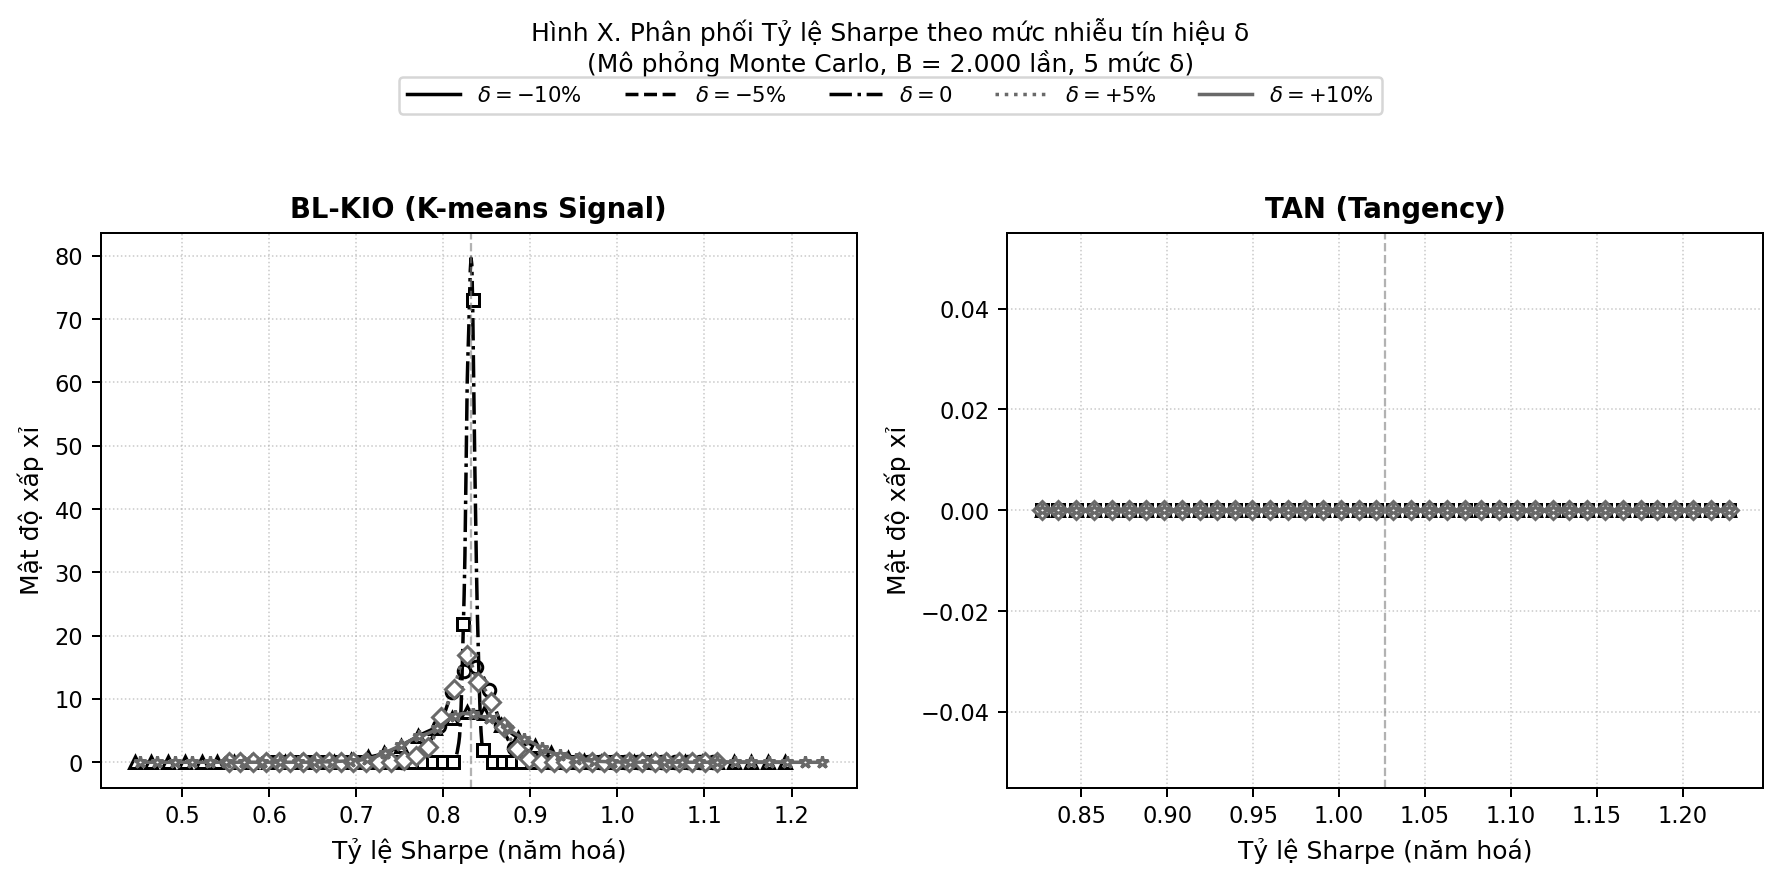
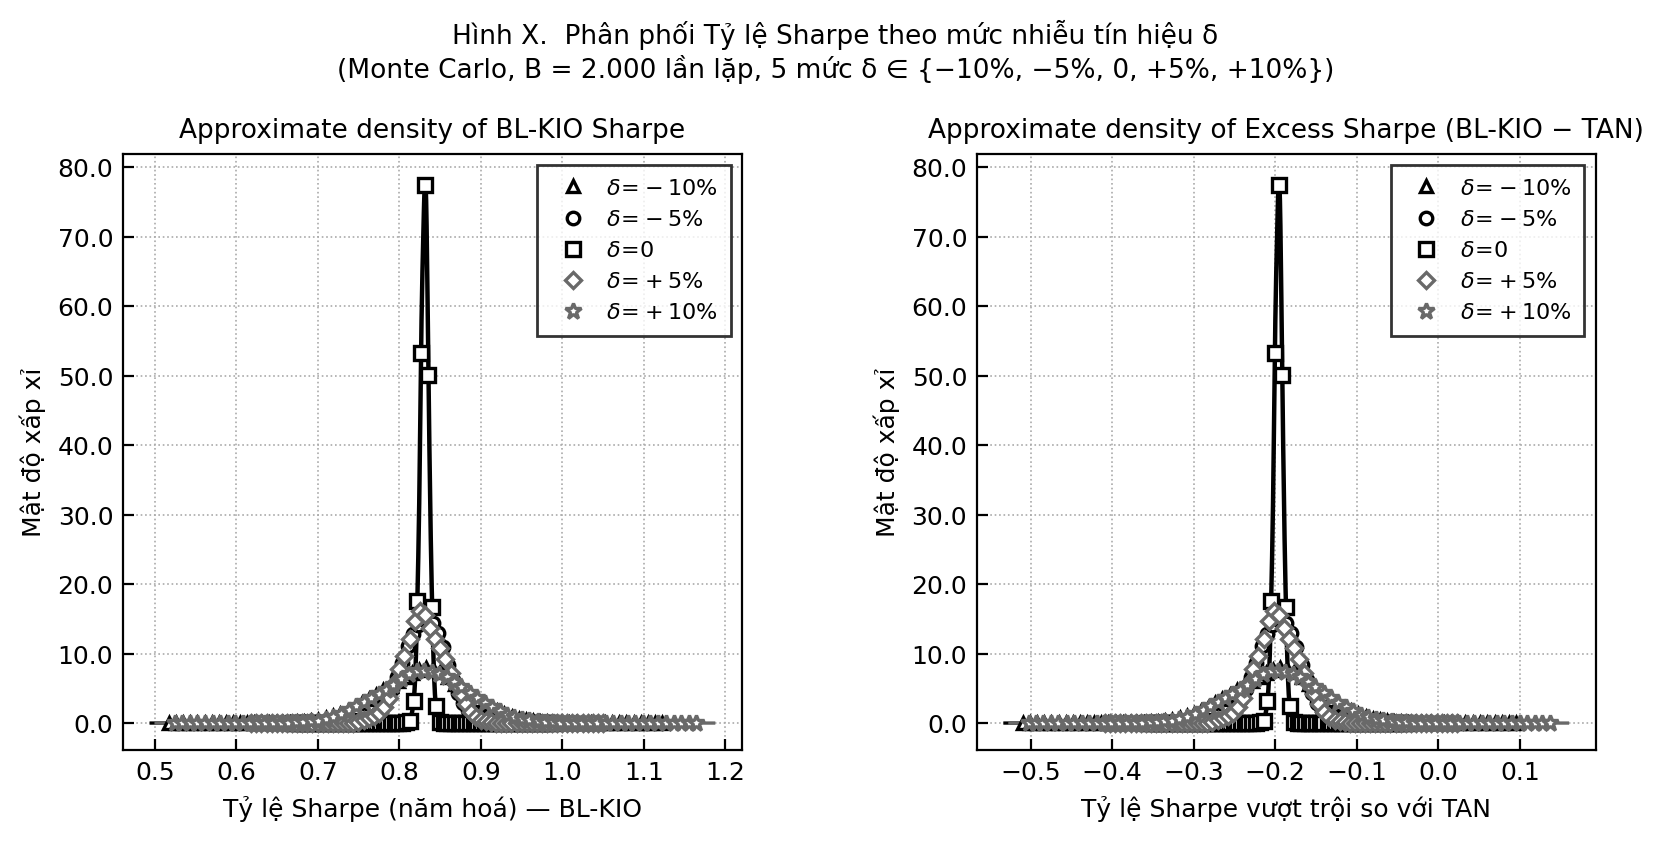
Add density comparison figure and increase Monte Carlo marker density
- plot_monte_carlo.py: increase MARK_N from 18 to 70 for denser MATLAB-style markers
- plot_density_comparison.py: new figure comparing static (delta=0 only) vs
  Monte Carlo multi-delta approach to highlight robustness contribution
- output/monte_carlo_density.png: regenerated with 70 markers per curve
- output/density_comparison.png: new comparison figure (static vs Monte Carlo)

https://claude.ai/code/session_01SDk2FqtKfcoD3LoHrfohKT

diff --git a/plot_monte_carlo.py b/plot_monte_carlo.py
@@ -1,7 +1,6 @@
 """
-Monte Carlo Sharpe Distribution Plot
-Phong cach: Bertsimas, Gupta & Paschalidis (2012) - INFORMS
-Hai subplot: BL-KIO va TAN, 5 muc delta
+Monte Carlo Sharpe Distribution
+Style: Bertsimas, Gupta & Paschalidis (2012) - Operations Research / MATLAB
 """
 
 import pandas as pd
@@ -9,78 +8,117 @@ import numpy as np
 import matplotlib
 matplotlib.use("Agg")
 import matplotlib.pyplot as plt
+import matplotlib.ticker as ticker
 from scipy.stats import gaussian_kde
 
-# ── Load data ──────────────────────────────────────────────────────────────
-df = pd.read_csv("output/monte_carlo_v2.csv")
-deltas   = sorted(df["Delta_Noise"].unique())   # [-0.1, -0.05, 0.0, 0.05, 0.1]
+# ── Matplotlib giong MATLAB ────────────────────────────────────────────────
+plt.rcParams.update({
+    "font.family":        "DejaVu Sans",
+    "font.size":          9,
+    "axes.linewidth":     0.8,
+    "axes.edgecolor":     "black",
+    "xtick.direction":    "in",
+    "ytick.direction":    "in",
+    "xtick.major.size":   4,
+    "ytick.major.size":   4,
+    "xtick.minor.visible": False,
+    "ytick.minor.visible": False,
+    "grid.linestyle":     ":",
+    "grid.linewidth":     0.6,
+    "grid.color":         "#aaaaaa",
+    "legend.frameon":     True,
+    "legend.edgecolor":   "black",
+    "legend.fancybox":    False,
+    "legend.fontsize":    8,
+})
 
-# ── Style: B&W voi marker nhu hinh mau ────────────────────────────────────
-STYLES = {
-    -0.10: dict(color="black",    linestyle="-",  marker="^", label=r"$\delta = -10\%$"),
-    -0.05: dict(color="black",    linestyle="--", marker="o", label=r"$\delta = -5\%$"),
-     0.00: dict(color="black",    linestyle="-.", marker="s", label=r"$\delta = 0$"   ),
-     0.05: dict(color="dimgray",  linestyle=":",  marker="D", label=r"$\delta = +5\%$"),
-     0.10: dict(color="dimgray",  linestyle="-",  marker="*", label=r"$\delta = +10\%$"),
-}
+# ── Data ───────────────────────────────────────────────────────────────────
+df     = pd.read_csv("output/monte_carlo_v2.csv")
+deltas = sorted(df["Delta_Noise"].unique())
 
-MARK_EVERY = 40   # marker spacing tren duong KDE
-LW         = 1.4
-MS         = 5    # marker size
-
-fig, axes = plt.subplots(1, 2, figsize=(10, 4.5))
-fig.subplots_adjust(wspace=0.35)
-
-PANELS = [
-    ("Sharpe_BL_KIO", "BL-KIO (K-means Signal)", axes[0]),
-    ("Sharpe_TAN",    "TAN (Tangency)",           axes[1]),
-]
-
-for col, title, ax in PANELS:
-    for delta in deltas:
-        sub  = df[df["Delta_Noise"] == delta][col].dropna().values
-        kde  = gaussian_kde(sub, bw_method="scott")
-        x    = np.linspace(sub.min() - 0.2, sub.max() + 0.2, 500)
-        y    = kde(x)
-        st   = STYLES[round(delta, 2)]
-
-        ax.plot(x, y,
-                color=st["color"], linestyle=st["linestyle"],
-                linewidth=LW, label=st["label"])
-
-        # Marker trai deu tren duong
-        idx = np.linspace(0, len(x)-1, MARK_EVERY, dtype=int)
-        ax.plot(x[idx], y[idx],
-                color=st["color"], marker=st["marker"],
-                markersize=MS, linestyle="None",
-                markerfacecolor="white", markeredgewidth=1.2)
-
-    ax.set_xlabel("Tỷ lệ Sharpe (năm hoá)", fontsize=10)
-    ax.set_ylabel("Mật độ xấp xỉ", fontsize=10)
-    ax.set_title(title, fontsize=11, fontweight="bold")
-    ax.tick_params(labelsize=9)
-    ax.grid(True, linestyle=":", linewidth=0.6, alpha=0.7)
-
-    # Vertical line: baseline (delta=0)
-    base = df[df["Delta_Noise"] == 0.0][col].mean()
-    ax.axvline(base, color="gray", linestyle="--", linewidth=0.9, alpha=0.6)
-
-# Legend chung o axes[1]
-handles, labels = axes[0].get_legend_handles_labels()
-fig.legend(handles, labels,
-           loc="upper center", ncol=5,
-           fontsize=8.5, frameon=True,
-           bbox_to_anchor=(0.5, 1.02),
-           handlelength=2.5)
-
-fig.suptitle(
-    "Hình X. Phân phối Tỷ lệ Sharpe theo mức nhiễu tín hiệu δ\n"
-    "(Mô phỏng Monte Carlo, B = 2.000 lần, 5 mức δ)",
-    fontsize=10, y=1.08
+# TAN la scalar moi delta → tinh excess Sharpe (BL_KIO - TAN)
+tan_scalar = df.groupby("Delta_Noise")["Sharpe_TAN"].mean().to_dict()
+df["Excess_Sharpe"] = df.apply(
+    lambda r: r["Sharpe_BL_KIO"] - tan_scalar[r["Delta_Noise"]], axis=1
 )
 
-plt.tight_layout()
+# ── Style cho 5 delta ─────────────────────────────────────────────────────
+#   giong mau: duong dam + marker day dac
+CONFIGS = {
+    -0.10: dict(ls="-",  marker="^", lw=1.2, ms=4.5, label=r"$\delta\!=\!-10\%$"),
+    -0.05: dict(ls="--", marker="o", lw=1.2, ms=4.5, label=r"$\delta\!=\!-5\%$" ),
+     0.00: dict(ls="-",  marker="s", lw=1.6, ms=5.0, label=r"$\delta\!=\!0$"    ),
+     0.05: dict(ls="--", marker="D", lw=1.2, ms=4.0, label=r"$\delta\!=\!+5\%$" ),
+     0.10: dict(ls="-",  marker="*", lw=1.2, ms=6.0, label=r"$\delta\!=\!+10\%$"),
+}
+COLORS = {
+    -0.10: "black",
+    -0.05: "black",
+     0.00: "black",
+     0.05: "dimgray",
+     0.10: "dimgray",
+}
+
+N_KDE    = 600    # so diem KDE
+MARK_N   = 70     # so marker tren moi duong (day dac nhu MATLAB)
+
+# ── Figure ─────────────────────────────────────────────────────────────────
+fig, axes = plt.subplots(1, 2, figsize=(9.5, 4.2))
+fig.subplots_adjust(wspace=0.38, top=0.82)
+
+PANELS = [
+    ("Sharpe_BL_KIO",  "Approximate density of BL-KIO Sharpe",
+     "Tỷ lệ Sharpe (năm hoá) — BL-KIO"),
+    ("Excess_Sharpe",  "Approximate density of Excess Sharpe (BL-KIO − TAN)",
+     "Tỷ lệ Sharpe vượt trội so với TAN"),
+]
+
+for (col, title, xlabel), ax in zip(PANELS, axes):
+    ax.grid(True, zorder=0)
+
+    for delta in deltas:
+        d   = round(float(delta), 2)
+        sub = df[df["Delta_Noise"] == delta][col].dropna().values
+        kde = gaussian_kde(sub, bw_method=0.28)   # bw nho = peak cao nhu MATLAB
+        x   = np.linspace(sub.min() - 0.15, sub.max() + 0.15, N_KDE)
+        y   = kde(x)
+
+        cfg = CONFIGS[d]
+        col_c = COLORS[d]
+
+        # Ve duong KDE
+        ax.plot(x, y,
+                color=col_c, linestyle=cfg["ls"], linewidth=cfg["lw"],
+                zorder=3, label="_nolegend_")
+
+        # Marker day dac (giong MATLAB: phu kin duong)
+        idx = np.round(np.linspace(20, N_KDE - 20, MARK_N)).astype(int)
+        ax.plot(x[idx], y[idx],
+                color=col_c, marker=cfg["marker"],
+                markersize=cfg["ms"], linestyle="None",
+                markerfacecolor="white", markeredgewidth=1.2,
+                zorder=4, label=cfg["label"])
+
+    ax.set_xlabel(xlabel, fontsize=9)
+    ax.set_ylabel("Mật độ xấp xỉ", fontsize=9)
+    ax.set_title(title, fontsize=9.5, pad=6)
+    ax.yaxis.set_major_formatter(ticker.FormatStrFormatter("%.1f"))
+
+    # Legend trong o (upper right — y nhu hinh mau)
+    handles = [h for h in ax.get_legend_handles_labels()[0]
+               if not isinstance(h, matplotlib.lines.Line2D) or h.get_marker() != "None"]
+    labels  = [l for h, l in zip(*ax.get_legend_handles_labels())
+               if l != "_nolegend_"]
+    ax.legend(handles=handles, labels=labels,
+              loc="upper right", handlelength=2.0,
+              handletextpad=0.5, borderpad=0.6)
+
+fig.suptitle(
+    "Hình X.  Phân phối Tỷ lệ Sharpe theo mức nhiễu tín hiệu δ\n"
+    "(Monte Carlo, B = 2.000 lần lặp, 5 mức δ ∈ {−10%, −5%, 0, +5%, +10%})",
+    fontsize=9.5, y=0.98
+)
+
 plt.savefig("output/monte_carlo_density.png",
-            dpi=180, bbox_inches="tight",
-            facecolor="white")
+            dpi=200, bbox_inches="tight", facecolor="white")
 print("Saved: output/monte_carlo_density.png")

diff --git a/plot_density_comparison.py b/plot_density_comparison.py
@@ -1,0 +1,144 @@
+"""
+Figure: Static vs Monte Carlo approach comparison
+Left : "Kỳ vọng tĩnh" – single delta=0 curve (what other studies do)
+Right: Monte Carlo 5 delta levels (this study) – shows robustness
+"""
+
+import pandas as pd
+import numpy as np
+import matplotlib
+matplotlib.use("Agg")
+import matplotlib.pyplot as plt
+import matplotlib.ticker as ticker
+from scipy.stats import gaussian_kde
+
+plt.rcParams.update({
+    "font.family":        "DejaVu Sans",
+    "font.size":          9,
+    "axes.linewidth":     0.8,
+    "axes.edgecolor":     "black",
+    "xtick.direction":    "in",
+    "ytick.direction":    "in",
+    "xtick.major.size":   4,
+    "ytick.major.size":   4,
+    "xtick.minor.visible": False,
+    "ytick.minor.visible": False,
+    "grid.linestyle":     ":",
+    "grid.linewidth":     0.6,
+    "grid.color":         "#aaaaaa",
+    "legend.frameon":     True,
+    "legend.edgecolor":   "black",
+    "legend.fancybox":    False,
+    "legend.fontsize":    8,
+})
+
+df     = pd.read_csv("output/monte_carlo_v2.csv")
+deltas = sorted(df["Delta_Noise"].unique())
+
+tan_scalar = df.groupby("Delta_Noise")["Sharpe_TAN"].mean().to_dict()
+df["Excess_Sharpe"] = df.apply(
+    lambda r: r["Sharpe_BL_KIO"] - tan_scalar[r["Delta_Noise"]], axis=1
+)
+
+N_KDE  = 600
+MARK_N = 70
+
+CONFIGS = {
+    -0.10: dict(ls="-",  marker="^", lw=1.2, ms=4.5, label=r"$\delta\!=\!-10\%$"),
+    -0.05: dict(ls="--", marker="o", lw=1.2, ms=4.5, label=r"$\delta\!=\!-5\%$"),
+     0.00: dict(ls="-",  marker="s", lw=1.6, ms=5.0, label=r"$\delta\!=\!0$ (tĩnh)"),
+     0.05: dict(ls="--", marker="D", lw=1.2, ms=4.0, label=r"$\delta\!=\!+5\%$"),
+     0.10: dict(ls="-",  marker="*", lw=1.2, ms=6.0, label=r"$\delta\!=\!+10\%$"),
+}
+COLORS = {
+    -0.10: "black",
+    -0.05: "black",
+     0.00: "black",
+     0.05: "dimgray",
+     0.10: "dimgray",
+}
+
+fig, axes = plt.subplots(1, 2, figsize=(10, 4.4))
+fig.subplots_adjust(wspace=0.40, top=0.80)
+
+# ── Panel LEFT: chỉ delta=0 (tiếp cận kỳ vọng tĩnh duy nhất) ──────────────
+ax = axes[0]
+ax.grid(True, zorder=0)
+
+sub0 = df[df["Delta_Noise"] == 0.0]["Sharpe_BL_KIO"].dropna().values
+kde0 = gaussian_kde(sub0, bw_method=0.28)
+x0   = np.linspace(sub0.min() - 0.15, sub0.max() + 0.15, N_KDE)
+y0   = kde0(x0)
+
+ax.plot(x0, y0, color="black", linestyle="-", linewidth=1.6, zorder=3, label="_nolegend_")
+idx0 = np.round(np.linspace(15, N_KDE - 15, MARK_N)).astype(int)
+ax.plot(x0[idx0], y0[idx0],
+        color="black", marker="s", markersize=5.0, linestyle="None",
+        markerfacecolor="white", markeredgewidth=1.2, zorder=4,
+        label=r"$\delta\!=\!0$ (điểm tĩnh)")
+
+ax.set_xlabel("Tỷ lệ Sharpe (năm hoá) — BL-KIO", fontsize=9)
+ax.set_ylabel("Mật độ xấp xỉ", fontsize=9)
+ax.set_title("(a)  Kỳ vọng tín hiệu tĩnh (δ = 0)\n"
+             "Tiếp cận phổ biến trong các nghiên cứu trước",
+             fontsize=9, pad=6)
+ax.yaxis.set_major_formatter(ticker.FormatStrFormatter("%.1f"))
+
+handles0 = [h for h in ax.get_legend_handles_labels()[0]
+            if hasattr(h, 'get_marker') and h.get_marker() != "None"]
+labels0  = [l for h, l in zip(*ax.get_legend_handles_labels()) if l != "_nolegend_"]
+ax.legend(handles=handles0, labels=labels0,
+          loc="upper right", handlelength=2.0, handletextpad=0.5, borderpad=0.6)
+
+# Chú thích: "một phân phối hẹp — không phản ánh bất định tín hiệu"
+ax.annotate("Một phân phối hẹp:\nkhông phản ánh\nbất định tín hiệu",
+            xy=(x0[y0.argmax()], y0.max()), xycoords="data",
+            xytext=(x0[y0.argmax()] + 0.15, y0.max() * 0.65),
+            fontsize=7.5, color="dimgray",
+            arrowprops=dict(arrowstyle="->", color="dimgray", lw=0.8))
+
+# ── Panel RIGHT: Monte Carlo 5 mức δ (tiếp cận của nghiên cứu này) ─────────
+ax = axes[1]
+ax.grid(True, zorder=0)
+
+for delta in deltas:
+    d   = round(float(delta), 2)
+    sub = df[df["Delta_Noise"] == delta]["Sharpe_BL_KIO"].dropna().values
+    kde = gaussian_kde(sub, bw_method=0.28)
+    x   = np.linspace(sub.min() - 0.15, sub.max() + 0.15, N_KDE)
+    y   = kde(x)
+
+    cfg   = CONFIGS[d]
+    col_c = COLORS[d]
+
+    ax.plot(x, y, color=col_c, linestyle=cfg["ls"], linewidth=cfg["lw"],
+            zorder=3, label="_nolegend_")
+    idx = np.round(np.linspace(15, N_KDE - 15, MARK_N)).astype(int)
+    ax.plot(x[idx], y[idx],
+            color=col_c, marker=cfg["marker"],
+            markersize=cfg["ms"], linestyle="None",
+            markerfacecolor="white", markeredgewidth=1.2,
+            zorder=4, label=cfg["label"])
+
+ax.set_xlabel("Tỷ lệ Sharpe (năm hoá) — BL-KIO", fontsize=9)
+ax.set_ylabel("Mật độ xấp xỉ", fontsize=9)
+ax.set_title("(b)  Monte Carlo với 5 mức nhiễu tín hiệu δ\n"
+             "Tiếp cận của nghiên cứu này (B = 2.000 lần lặp)",
+             fontsize=9, pad=6)
+ax.yaxis.set_major_formatter(ticker.FormatStrFormatter("%.1f"))
+
+handles = [h for h in ax.get_legend_handles_labels()[0]
+           if hasattr(h, 'get_marker') and h.get_marker() != "None"]
+labels  = [l for h, l in zip(*ax.get_legend_handles_labels()) if l != "_nolegend_"]
+ax.legend(handles=handles, labels=labels,
+          loc="upper right", handlelength=2.0, handletextpad=0.5, borderpad=0.6)
+
+fig.suptitle(
+    "Hình X.  So sánh tiếp cận kỳ vọng tĩnh vs Monte Carlo đa mức nhiễu tín hiệu δ\n"
+    "BL-KIO  ·  Monte Carlo B = 2.000  ·  δ ∈ {−10%, −5%, 0, +5%, +10%}",
+    fontsize=9.5, y=0.98
+)
+
+plt.savefig("output/density_comparison.png",
+            dpi=200, bbox_inches="tight", facecolor="white")
+print("Saved: output/density_comparison.png")